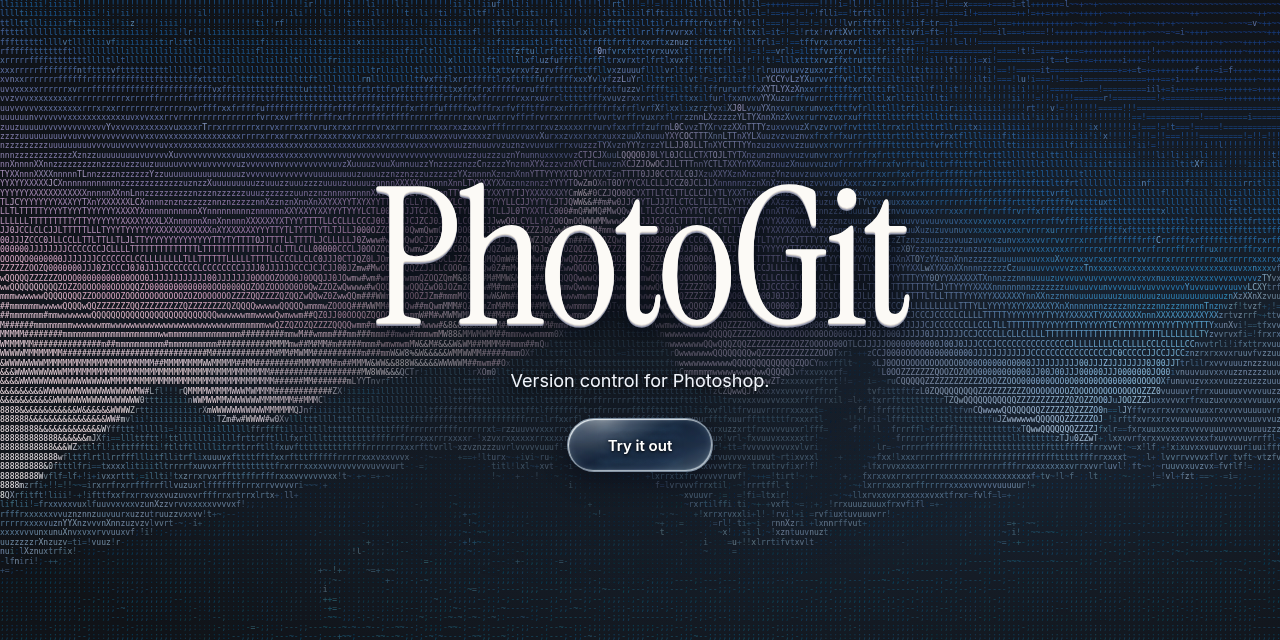
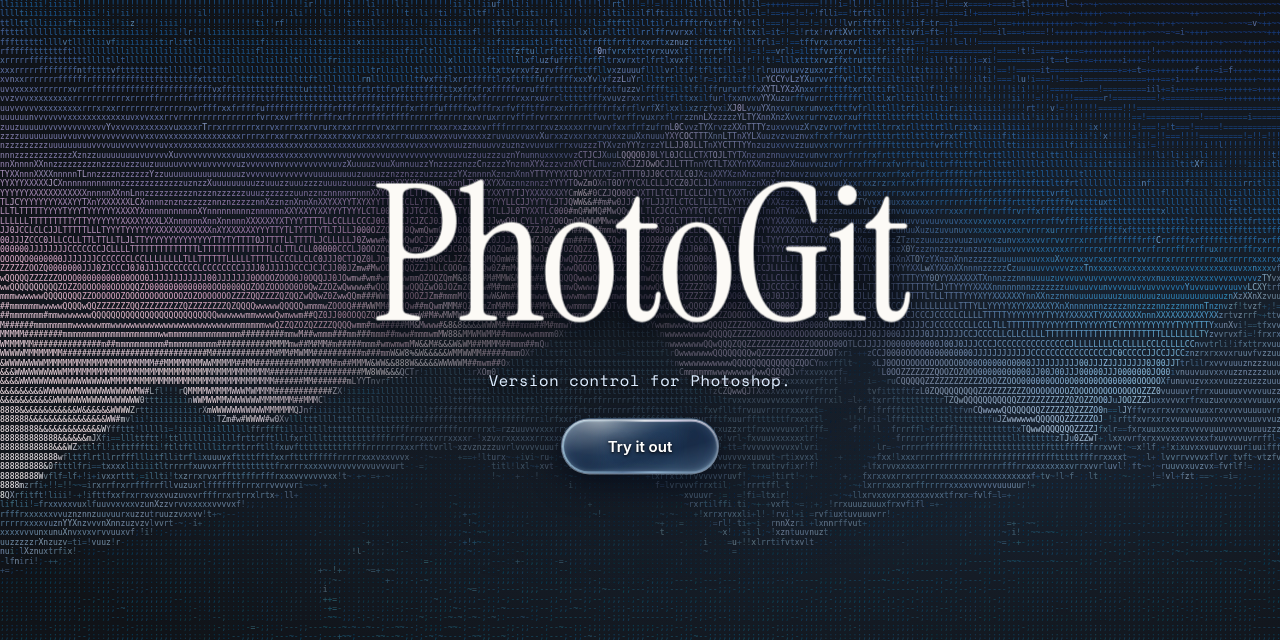
Extrude the PhotoGit title on hover and deepen the liquid glass

diff --git a/site/studio.css b/site/studio.css
@@ -6,6 +6,14 @@
   font-display: swap;
 }
 
+@font-face {
+  font-family: "Space Mono";
+  src: url("fonts/space-mono-latin.woff2") format("woff2");
+  font-style: normal;
+  font-weight: 400;
+  font-display: swap;
+}
+
 :root {
   color-scheme: dark;
   background: #101318;
@@ -51,10 +59,27 @@ body { margin: 0; isolation: isolate; }
 }
 
 .wordmark {
-  perspective: 760px;
+  perspective: 680px;
 }
 
-.wordmark h1 {
+.wordmark-object {
+  position: relative;
+  pointer-events: none;
+  transform-style: preserve-3d;
+  transform: translateY(var(--lift, 0px)) rotateX(var(--tilt-x, 0deg))
+    rotateY(var(--tilt-y, 0deg)) translateZ(var(--depth, 0px));
+  transition: transform .46s cubic-bezier(.2, .8, .2, 1);
+}
+
+.is-tilted .wordmark-object {
+  --lift: -10px;
+  --depth: 38px;
+  transition-duration: .18s;
+}
+
+.wordmark h1,
+.wordmark-depth::before,
+.wordmark-depth::after {
   margin: 0;
   padding: .05em .12em .1em;
   font-family: "Instrument Serif", Georgia, serif;
@@ -62,20 +87,53 @@ body { margin: 0; isolation: isolate; }
   font-weight: 400;
   line-height: .85;
   letter-spacing: -.025em;
-  color: #fcfaf6;
-  text-shadow: 0 1px #e5e0d8, 0 2px #adadbb, 0 3px #84899f,
-    0 6px 14px #080e1a, 0 14px 36px #020611b3;
-  transform: rotateX(var(--tilt-x, 0deg)) rotateY(var(--tilt-y, 0deg));
-  transition: transform .45s cubic-bezier(.2, .8, .2, 1);
 }
 
-.wordmark:hover h1 { transition-duration: .14s; }
+.wordmark h1 {
+  position: relative;
+  color: #fcfaf6;
+  text-shadow: 0 4px 16px #080e1a, 0 12px 36px #020611b3;
+  transform: translateZ(1px);
+}
+
+.wordmark-depth {
+  position: absolute;
+  inset: 0;
+  transform-style: preserve-3d;
+}
+
+.wordmark-depth::before,
+.wordmark-depth::after {
+  position: absolute;
+  inset: 0;
+  content: attr(data-text);
+  opacity: 0;
+  transition: opacity .2s ease;
+}
+
+.wordmark-depth::before {
+  color: #a1b8df;
+  -webkit-text-stroke: 1.5px #a1b8df;
+  transform: translateZ(-5px);
+}
+
+.wordmark-depth::after {
+  color: #526995;
+  -webkit-text-stroke: 2px #526995;
+  text-shadow: 0 3px #354b75, 0 6px #243858, 1px 8px 14px #050b17;
+  transform: translateZ(-12px);
+}
+
+.is-tilted .wordmark-depth::before,
+.is-tilted .wordmark-depth::after { opacity: 1; }
 
 .preview p {
-  margin: 11px 0 27px;
-  color: #f0f4fb;
-  font-size: clamp(15px, 2vw, 18px);
-  text-shadow: 0 1px 8px #000, 0 2px 20px #000;
+  margin: 13px 0 27px;
+  color: #dcecff;
+  font-family: "Space Mono", ui-monospace, monospace;
+  font-size: clamp(12px, 1.2vw, 16px);
+  letter-spacing: .045em;
+  text-shadow: 0 1px 5px #000, 0 2px 16px #000;
 }
 
 .try-link {
@@ -84,18 +142,19 @@ body { margin: 0; isolation: isolate; }
   display: inline-flex;
   align-items: center;
   justify-content: center;
-  min-width: 146px;
-  min-height: 54px;
+  min-width: 158px;
+  min-height: 56px;
   padding: 12px 27px;
   overflow: hidden;
-  border: 1px solid rgb(231 244 255 / 46%);
+  border: 1px solid rgb(231 244 255 / 35%);
   border-radius: 999px;
-  background: linear-gradient(155deg, #f3faff38, #c5ddff04 45%, #9ac6ff16 72%, #ddf6ff42),
-    rgb(18 26 39 / 27%);
-  -webkit-backdrop-filter: blur(2px) saturate(190%) brightness(128%);
-  backdrop-filter: blur(2px) saturate(190%) brightness(128%);
-  box-shadow: inset 1px 1px 1px #faffffe0, inset -1px -1px 1px #f4fcffad,
-    inset 0 0 8px #cde9ff30, 0 8px 24px #02061166;
+  background:
+    linear-gradient(165deg, #effbff48, #c9e2ff07 39%, #a9c7ff04 63%, #b4dcff3d),
+    rgb(28 40 58 / 20%);
+  -webkit-backdrop-filter: blur(7px) saturate(205%) brightness(145%);
+  backdrop-filter: blur(7px) saturate(205%) brightness(145%);
+  box-shadow: inset 0 1px 2px #ffffffc4, inset 0 -1px 5px #d2efff63,
+    inset 0 0 13px #cde9ff24, 0 9px 30px #020815a6;
   color: #fff;
   font-size: 15px;
   font-weight: 600;
@@ -104,26 +163,45 @@ body { margin: 0; isolation: isolate; }
   transition: border-color .2s ease, box-shadow .2s ease;
 }
 
-.try-link::before {
+.try-link::before,
+.try-link::after {
   position: absolute;
   z-index: -1;
   inset: 0;
-  background: radial-gradient(82px 48px at var(--glint-x, 24%) var(--glint-y, 0%),
-    #fff9, #d9edff42 35%, #b6dfff0d 72%, transparent);
+  border-radius: inherit;
+  pointer-events: none;
   content: "";
-  opacity: .56;
   transition: opacity .2s ease;
+}
+
+.try-link::before {
+  background: radial-gradient(97px 58px at var(--glint-x, 24%) var(--glint-y, 0%),
+    #fff9, #e2f1ff46 31%, #a3d1ff16 63%, transparent);
+  opacity: .68;
+}
+
+.try-link::after {
+  padding: 2px;
+  background: conic-gradient(from 215deg, #9bcaff4d, #bceaffb3, transparent 28%,
+    #fff 43%, #f3e7fff2, transparent 66%, #b8dfffca 82%, #9bcaff4d);
+  -webkit-mask: linear-gradient(#000 0 0) content-box, linear-gradient(#000 0 0);
+  -webkit-mask-composite: xor;
+  mask: linear-gradient(#000 0 0) content-box, linear-gradient(#000 0 0);
+  mask-composite: exclude;
+  opacity: .72;
 }
 
 .try-link:hover,
 .try-link:focus-visible {
-  border-color: #edfaffc9;
-  box-shadow: inset 1px 1px 2px #fff, inset -1px -1px 2px #f4fcffd9,
-    inset 0 0 10px #ddf0ff47, 0 8px 26px #a0ceff33;
+  border-color: #edfaff9c;
+  box-shadow: inset 0 1px 2px #fff, inset 0 -1px 6px #d3efff9e,
+    inset 0 0 17px #ddf0ff39, 0 8px 26px #a0ceff38;
 }
 
 .try-link:hover::before,
-.try-link:focus-visible::before { opacity: 1; }
+.try-link:hover::after,
+.try-link:focus-visible::before,
+.try-link:focus-visible::after { opacity: 1; }
 
 .try-link:focus-visible {
   outline: 2px solid #c5d9fb;
@@ -131,10 +209,13 @@ body { margin: 0; isolation: isolate; }
 }
 
 @media (prefers-reduced-motion: reduce) {
-  .wordmark h1,
-  .wordmark:hover h1,
+  .wordmark-object,
+  .is-tilted .wordmark-object,
+  .wordmark-depth::before,
+  .wordmark-depth::after,
   .try-link,
-  .try-link::before { transition: none; }
+  .try-link::before,
+  .try-link::after { transition: none; }
 
-  .wordmark h1 { transform: none; }
+  .wordmark-object { transform: none; }
 }

diff --git a/site/ascii-background.js b/site/ascii-background.js
@@ -5,17 +5,21 @@
   const reducedMotion = matchMedia('(prefers-reduced-motion: reduce)');
 
   const resetTilt = () => {
+    wordmark.classList.remove('is-tilted');
     wordmark.style.removeProperty('--tilt-x');
     wordmark.style.removeProperty('--tilt-y');
   };
-  wordmark.addEventListener('pointermove', ({ clientX, clientY, pointerType }) => {
+  const tilt = ({ clientX, clientY, pointerType }) => {
     if (pointerType === 'touch' || reducedMotion.matches) return;
     const { left, top, width, height } = wordmark.getBoundingClientRect();
     const x = (clientX - left) / width - 0.5;
     const y = (clientY - top) / height - 0.5;
-    wordmark.style.setProperty('--tilt-x', `${-y * 44}deg`);
-    wordmark.style.setProperty('--tilt-y', `${x * 60}deg`);
-  });
+    wordmark.style.setProperty('--tilt-x', `${12 - y * 48}deg`);
+    wordmark.style.setProperty('--tilt-y', `${-15 + x * 56}deg`);
+    wordmark.classList.add('is-tilted');
+  };
+  wordmark.addEventListener('pointerenter', tilt);
+  wordmark.addEventListener('pointermove', tilt);
   wordmark.addEventListener('pointerleave', resetTilt);
   wordmark.addEventListener('pointercancel', resetTilt);
   window.addEventListener('blur', resetTilt);

diff --git a/site/index.html b/site/index.html
@@ -17,6 +17,7 @@
   <meta property="og:image:alt" content="PhotoGit over a night sky and mountains rendered in color ASCII">
   <meta name="twitter:card" content="summary_large_image">
   <link rel="preload" href="fonts/instrument-serif-latin.woff2" as="font" type="font/woff2" crossorigin>
+  <link rel="preload" href="fonts/space-mono-latin.woff2" as="font" type="font/woff2" crossorigin>
   <link rel="stylesheet" href="studio.css">
   <script src="ascii-background.js" defer></script>
 </head>
@@ -27,7 +28,12 @@
   </div>
   <main class="preview" aria-labelledby="title">
     <div>
-      <div class="wordmark"><h1 id="title">PhotoGit</h1></div>
+      <div class="wordmark">
+        <div class="wordmark-object">
+          <span class="wordmark-depth" data-text="PhotoGit" aria-hidden="true"></span>
+          <h1 id="title">PhotoGit</h1>
+        </div>
+      </div>
       <p>Version control for Photoshop.</p>
       <a class="try-link" href="https://github.com/xingexu/photogit">Try it out</a>
     </div>

diff --git a/site/README.md b/site/README.md
@@ -2,7 +2,7 @@
 
 Serve this directory with `python3 -m http.server 3000 --directory site` from the repository root.
 
-The site picks one of four nature photographs on each load and draws it as full-screen color ASCII. Moving a mouse or pen lights up characters along its path and tilts the PhotoGit title on hover. Reduced-motion settings disable the trail and tilt.
+The site picks one of four nature photographs on each load and draws it as full-screen color ASCII. Moving a mouse or pen lights up characters along its path. Hovering over the PhotoGit title lifts it into 3D and tilts it toward the pointer. Reduced-motion settings disable the trail and tilt.
 
 Background photo sources ([Unsplash License](https://unsplash.com/license)):
 
